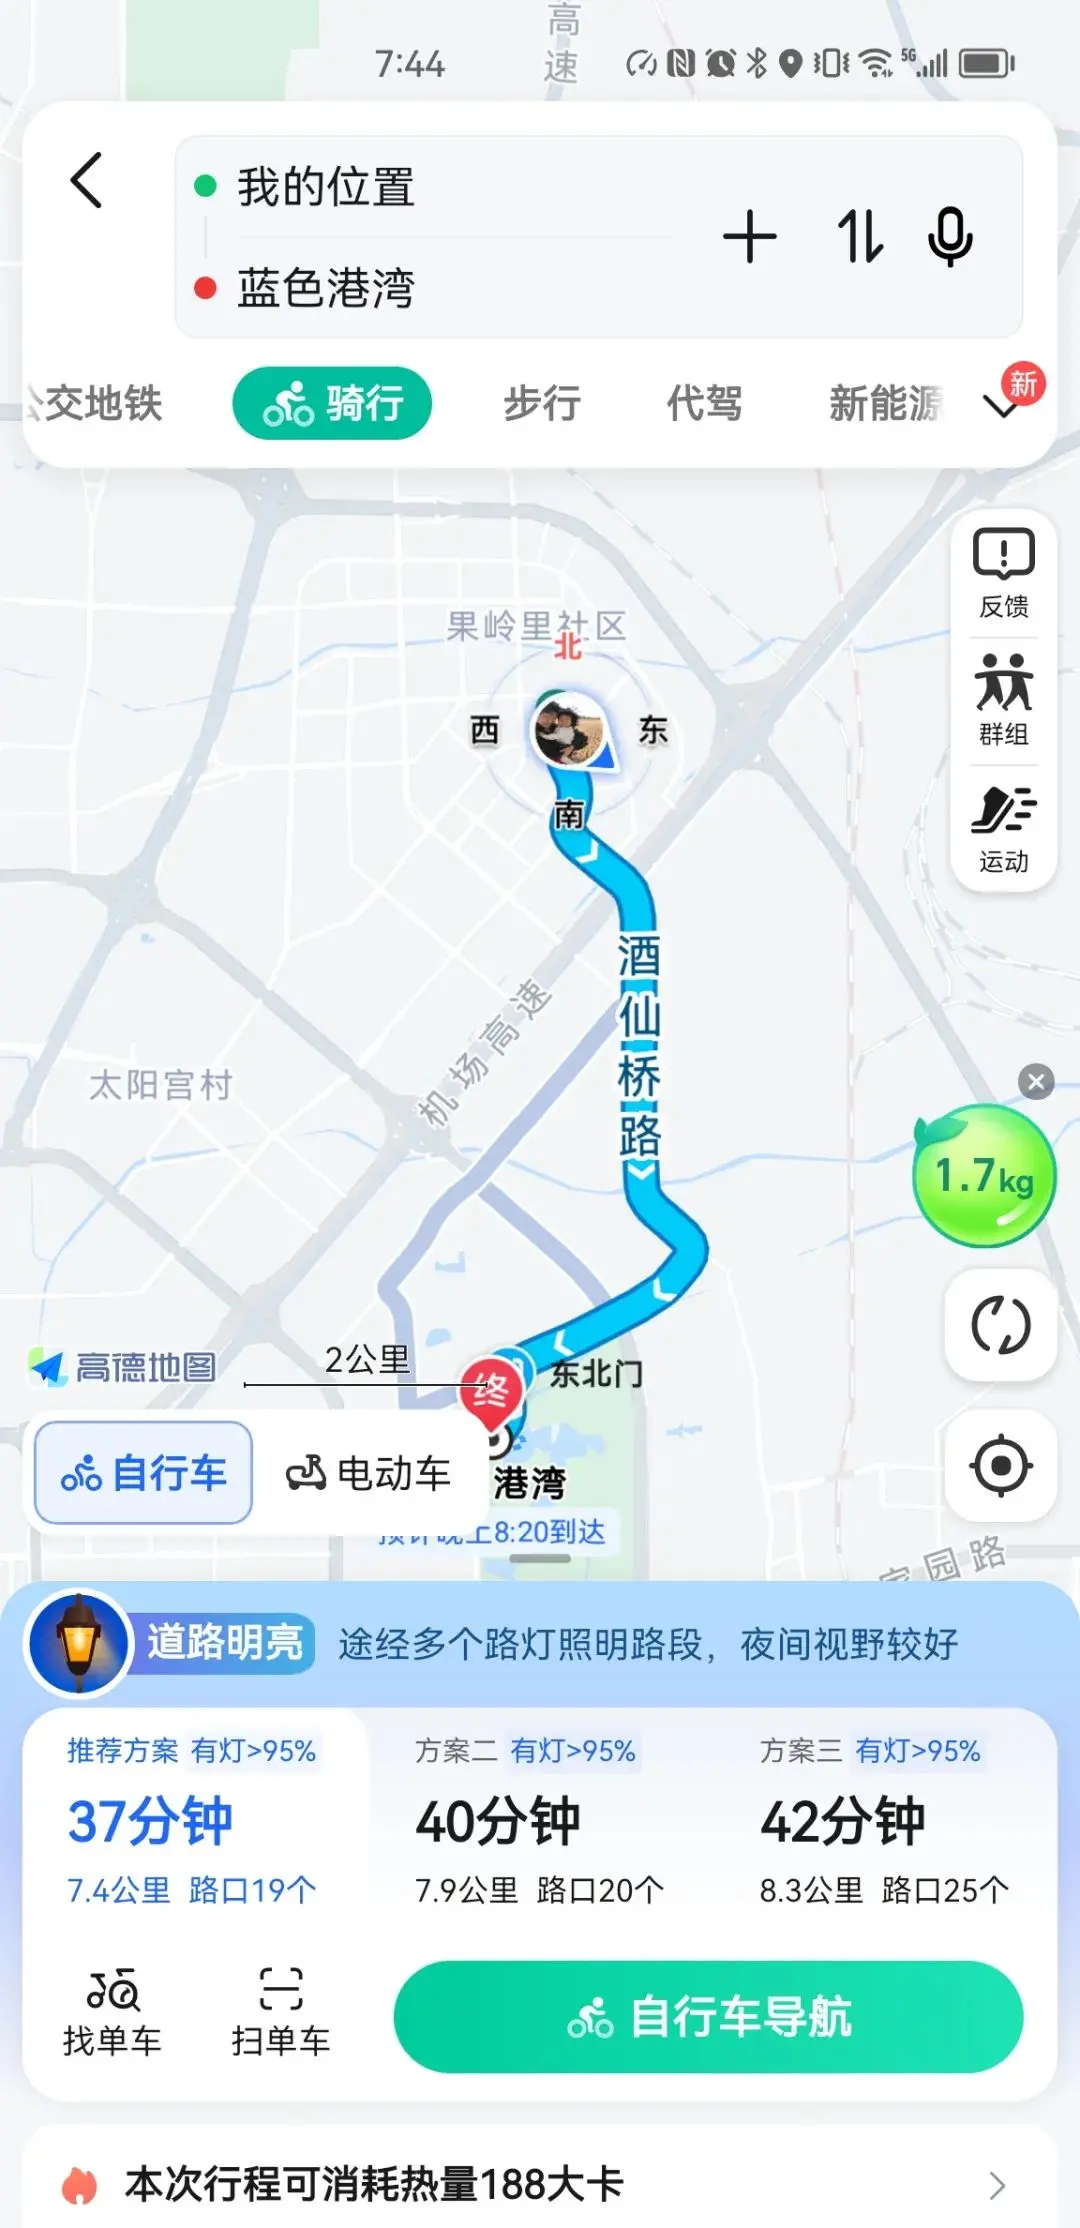
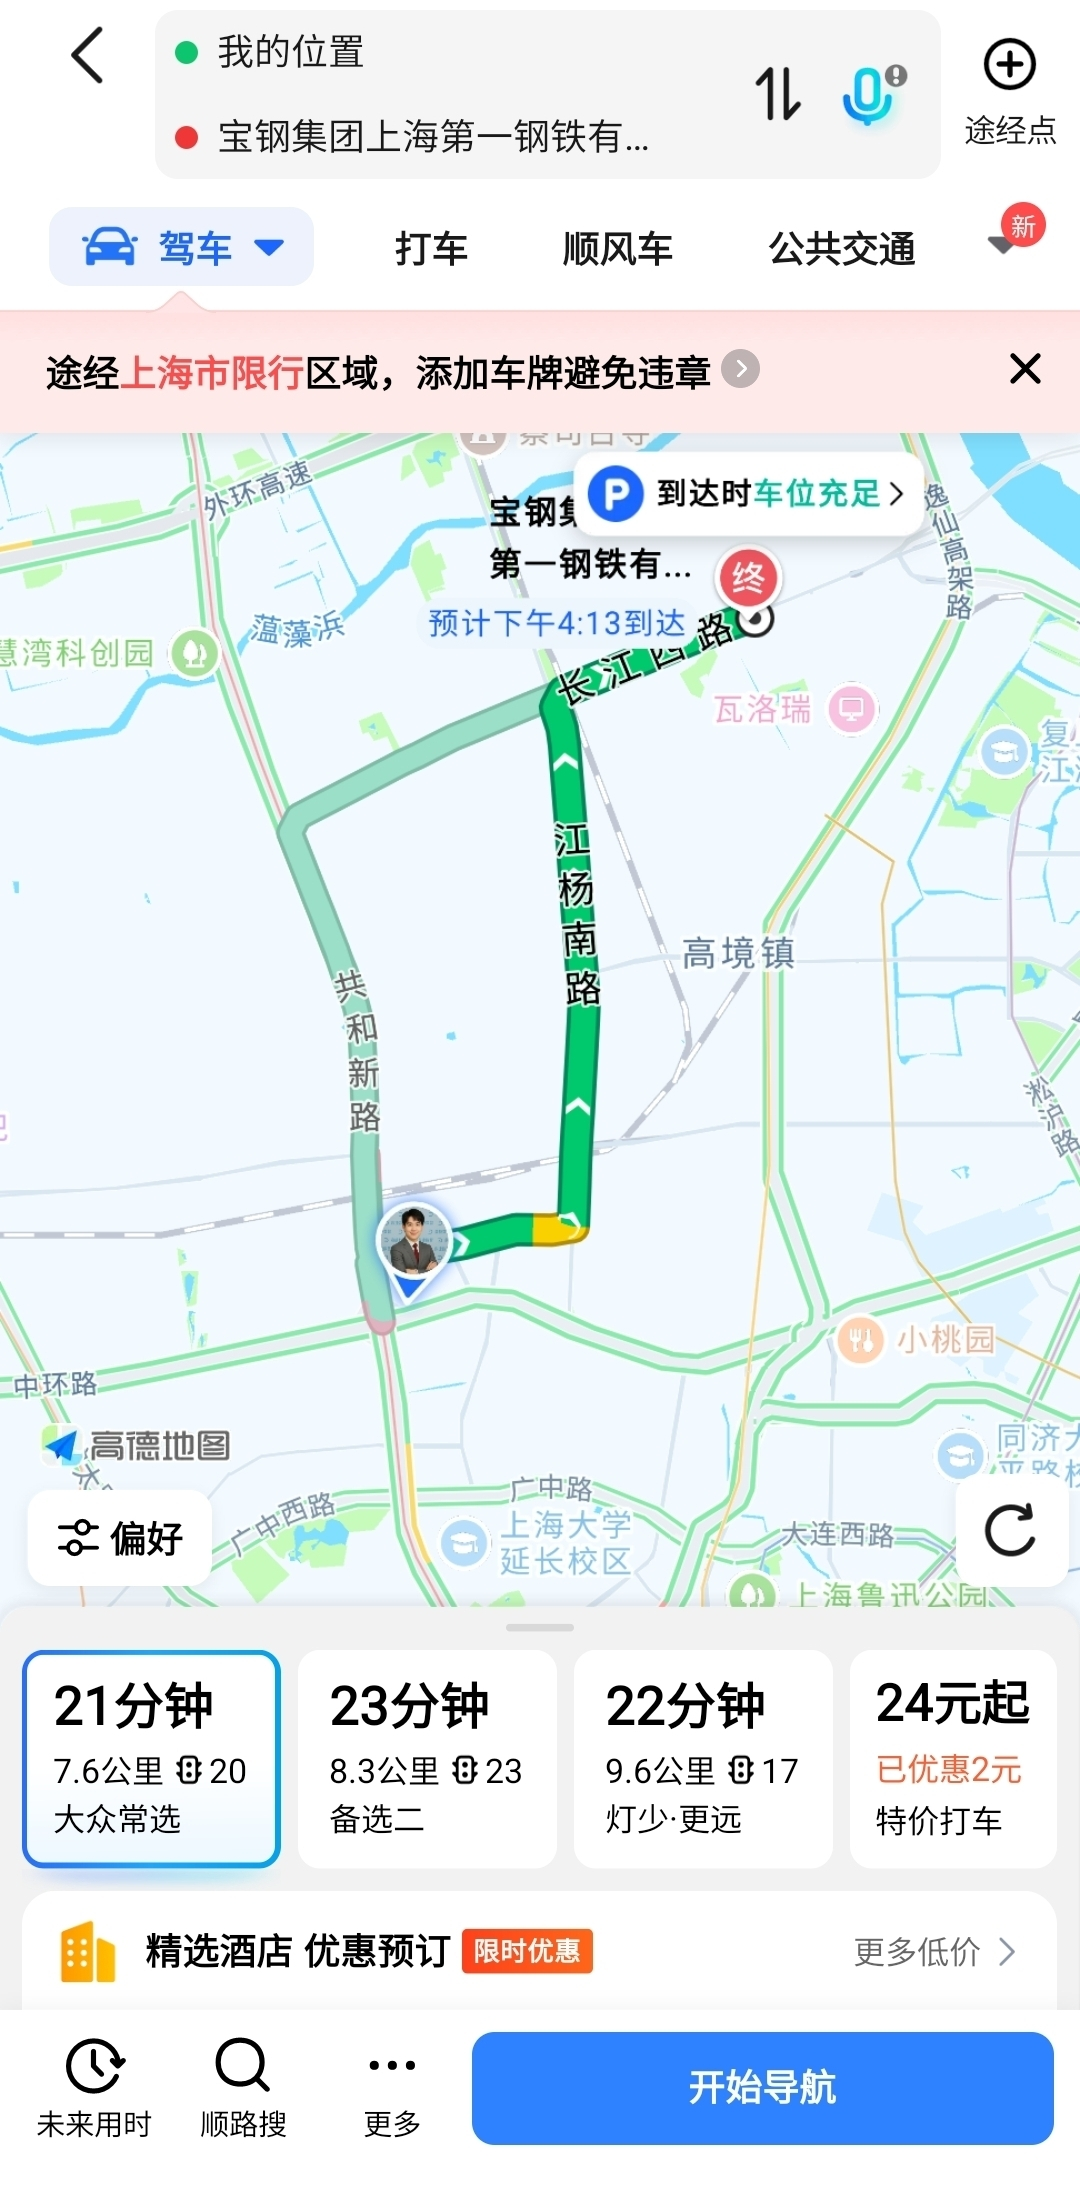
chore(release): 备份到GitHub V9.4（行程结束页公里数改为7.6）

diff --git a/trip_end.html b/trip_end.html
@@ -11,7 +11,7 @@
     <div class="container">
         <a href="#" id="back-to-calendar-link" class="back-link">&lt;返回日历</a>
         <h1 class="title">行程已结束，<br>今日驾驶公里数为</h1>
-        <div class="mileage-button">32公里</div>
+        <div class="mileage-button">7.6公里</div>
     </div>
 </body>
 </html>

diff --git a/didi_trip.html b/didi_trip.html
@@ -15,7 +15,7 @@
         </div>
         <h1 class="title">您目前在进行企业滴滴</h1>
         <div class="ctrip-placeholder">
-            <img src="images/cars.png" alt="企业滴滴">
+            <img src="images/DiDi.png" alt="企业滴滴">
         </div>
     </div>
 </body>
